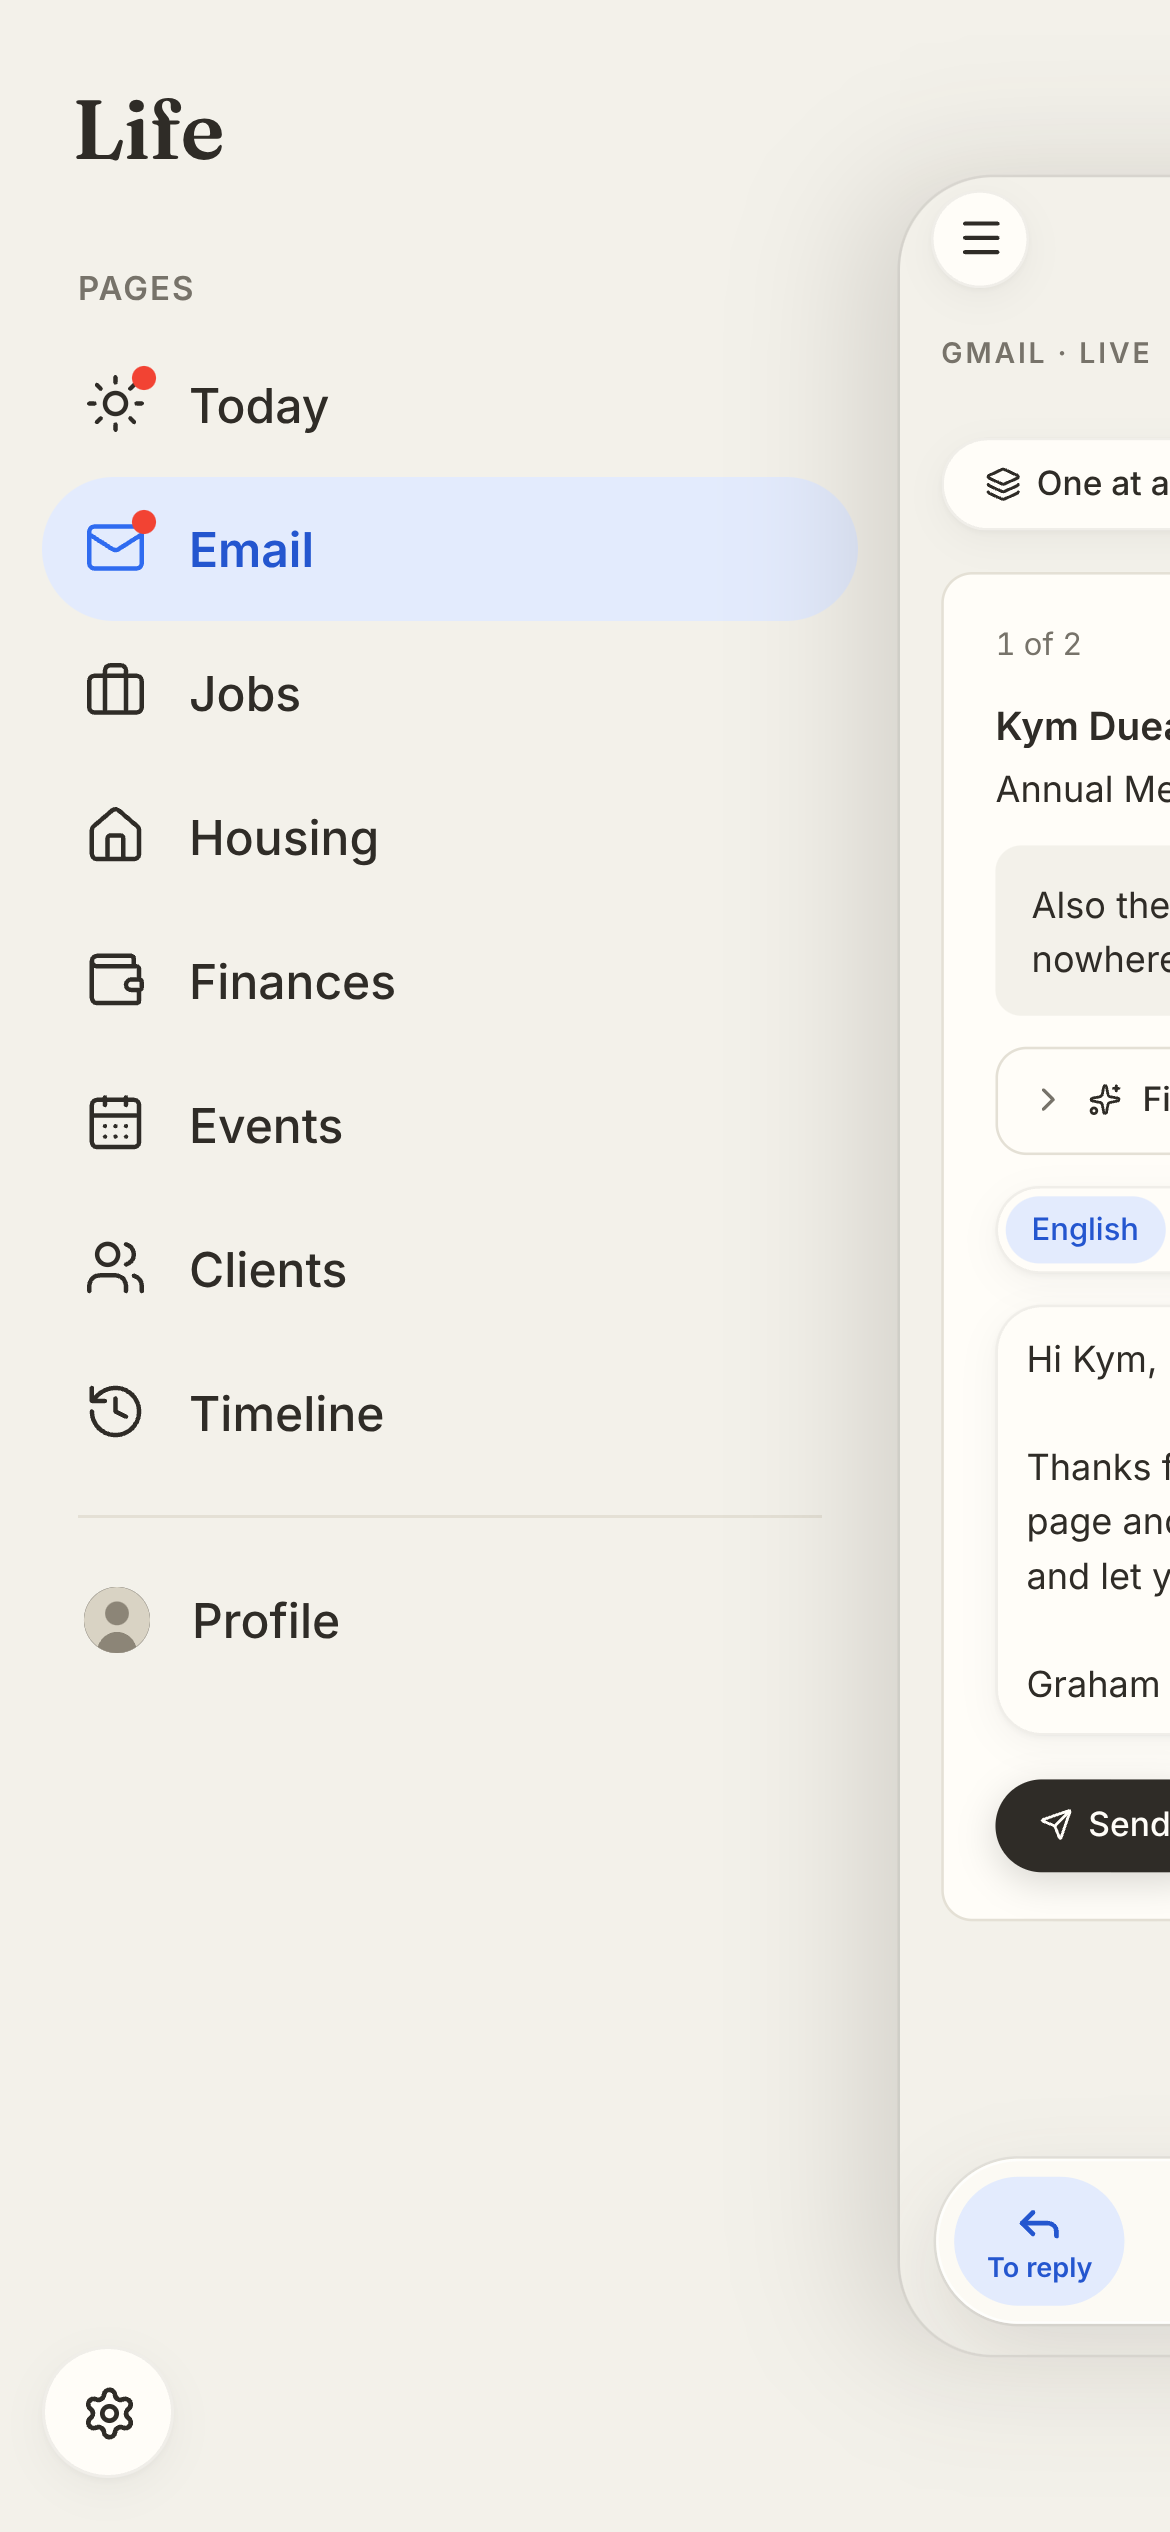
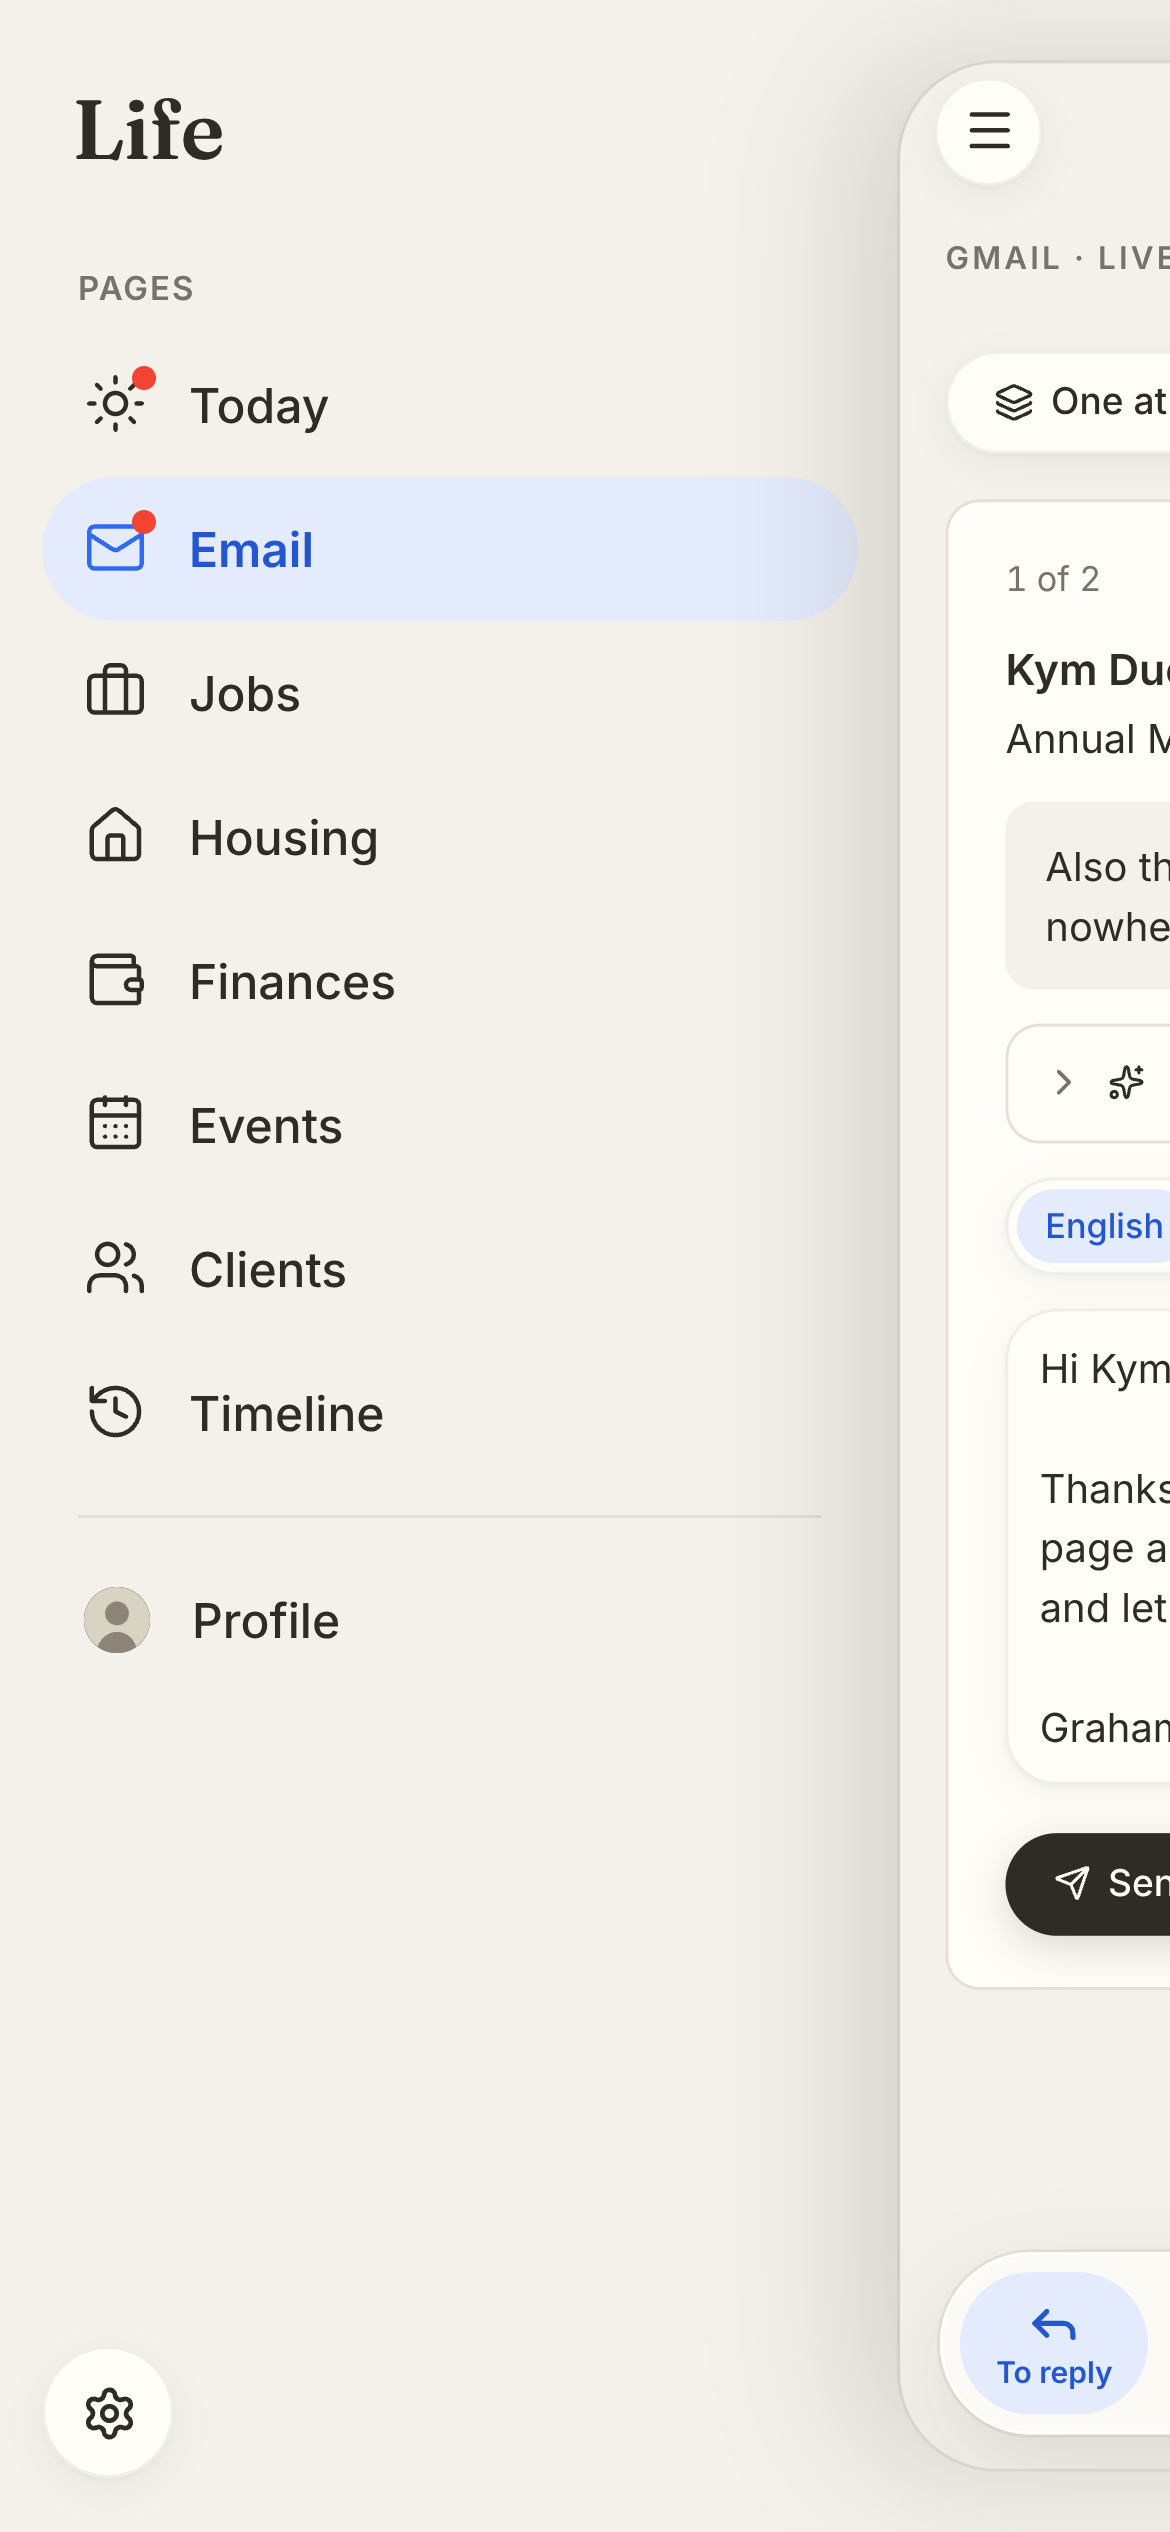
Phone menu: brand-color backdrop (blue), card nearly full height and centered, tab bar no longer jumps on close
Claude-Session: https://claude.ai/code/session_014Egirv3gvbTzrnHaoEqViP

diff --git a/src/styles.css b/src/styles.css
@@ -961,6 +961,10 @@ textarea, .plain, .field input { border-color: var(--ctl-line); border-radius: 1
 /* phone: round menu button + title + avatar on top, frosted floating tab bar with the main pages,
    side drawer with every page that pushes the page aside (after Muse) */
 .m-drawer, .m-shade, .phone-only { display: none; }
+/* phone menu color: blue by default; data-menu on body picks gold or green */
+body { --menu-bg: var(--blue); --menu-fg: #fff; --menu-muted: rgba(255, 255, 255, .7); --menu-line: rgba(255, 255, 255, .25); --menu-active: rgba(255, 255, 255, .2); --menu-active-fg: #fff; }
+body[data-menu="gold"] { --menu-bg: var(--gold); --menu-fg: #2F2C27; --menu-muted: rgba(47, 44, 39, .6); --menu-line: rgba(47, 44, 39, .15); --menu-active: rgba(255, 255, 255, .45); --menu-active-fg: #2F2C27; }
+body[data-menu="green"] { --menu-bg: var(--green); }
 @media (max-width: 640px) {
   :root { --tabs: 64px; --drawer: min(300px, 80vw); --push: cubic-bezier(.32, .72, 0, 1); }
   .m-top { display: grid; grid-template-columns: 40px 1fr 40px; gap: 10px; padding-left: 12px; padding-right: 12px; border-bottom-color: transparent; background: rgba(243, 241, 234, .8); }
@@ -992,25 +996,30 @@ textarea, .plain, .field input { border-color: var(--ctl-line); border-radius: 1
 
   .shell { transition: transform 460ms var(--push), border-radius 460ms var(--push), box-shadow 460ms var(--push); transform-origin: 0 50%; }
   body.drawer-lock { overflow: hidden; }
-  body.drawer-lock .shell { position: fixed; inset: 0; overflow: hidden; background: var(--bg); z-index: 2; }
+  body.drawer-lock .shell { position: fixed; inset: 0; min-height: 0; height: auto; overflow: hidden; background: var(--bg); z-index: 2; }
   body.drawer-lock .main { margin-top: var(--sy); }
   body.drawer-open .shell {
-    transform: translateX(var(--drawer)) scale(.86); border-radius: 36px;
+    transform: translateX(var(--drawer)) scale(.95); border-radius: 34px;
     box-shadow: 0 0 0 1px var(--ctl-line), -16px 0 50px rgba(47, 44, 39, .16);
   }
   body.drawer-open .m-top { background: transparent; -webkit-backdrop-filter: none; backdrop-filter: none; }
   .m-drawer {
     display: flex; flex-direction: column; position: fixed; z-index: 1; height: 100dvh; inset: 0 auto 0 0; width: var(--drawer);
     padding: calc(env(safe-area-inset-top) + 22px) 14px calc(env(safe-area-inset-bottom) + 18px);
-    background: var(--bg); overflow-y: auto;
+    background: transparent; color: var(--menu-fg); overflow-y: auto;
     opacity: 0; transform: translateX(-24px); visibility: hidden;
     transition: opacity 300ms ease, transform 420ms var(--push), visibility 0s 420ms;
   }
   .m-drawer.show { opacity: 1; transform: none; visibility: visible; transition: opacity 300ms ease, transform 420ms var(--push); }
-  .m-drawer-title { font-family: var(--display); font-size: 28px; font-weight: 600; letter-spacing: -.01em; color: var(--fg); text-decoration: none; padding: 0 10px 18px; }
-  .m-label { font-size: 11px; font-weight: 600; letter-spacing: .06em; text-transform: uppercase; color: var(--muted); padding: 6px 12px 6px; }
-  .m-drawer hr { border: 0; border-top: 1px solid var(--line); margin: 10px 12px; }
-  .m-drawer .m-row { height: 48px; gap: 14px; padding: 0 14px; border-radius: 99px; font-size: 16px; }
+  .m-drawer-title { font-family: var(--display); font-size: 28px; font-weight: 600; letter-spacing: -.01em; color: var(--menu-fg); text-decoration: none; padding: 0 10px 18px; }
+  .m-label { font-size: 11px; font-weight: 600; letter-spacing: .06em; text-transform: uppercase; color: var(--menu-muted); padding: 6px 12px 6px; }
+  .m-drawer hr { border: 0; border-top: 1px solid var(--menu-line); margin: 10px 12px; }
+  .m-drawer .m-row { height: 48px; gap: 14px; padding: 0 14px; border-radius: 99px; font-size: 16px; color: var(--menu-fg); }
+  .m-drawer .m-row.active { background: var(--menu-active); color: var(--menu-active-fg); }
+  .m-drawer .m-row.active svg:first-child { color: var(--menu-active-fg); }
+  .m-drawer .badge.dot { box-shadow: 0 0 0 2px var(--menu-bg); }
+  .m-drawer .round-btn { background: var(--menu-active); border-color: transparent; color: var(--menu-active-fg); box-shadow: none; }
+  body.drawer-lock { background: var(--menu-bg); }
   .m-drawer .m-row .avatar { box-shadow: none; }
   .m-row.active { background: var(--blue-soft); color: var(--blue-ink); font-weight: 600; }
   .m-row.active svg:first-child { color: var(--blue); }

diff --git a/src/components/MobileNav.jsx b/src/components/MobileNav.jsx
@@ -56,11 +56,15 @@ export default function MobileNav({ counts }) {
     const y = window.scrollY
     body.style.setProperty('--sy', `${-y}px`)
     body.classList.add('drawer-lock', 'drawer-open')
+    const meta = document.querySelector('meta[name=theme-color]')
+    const before = meta?.content
+    if (meta) meta.content = getComputedStyle(body).getPropertyValue('--menu-bg').trim() || before
     const onKey = (e) => { if (e.key === 'Escape') setOpen(false) }
     document.addEventListener('keydown', onKey)
     return () => {
       document.removeEventListener('keydown', onKey)
       body.classList.remove('drawer-open')
+      if (meta) meta.content = before
       setTimeout(() => {
         if (body.classList.contains('drawer-open')) return
         body.classList.remove('drawer-lock')
